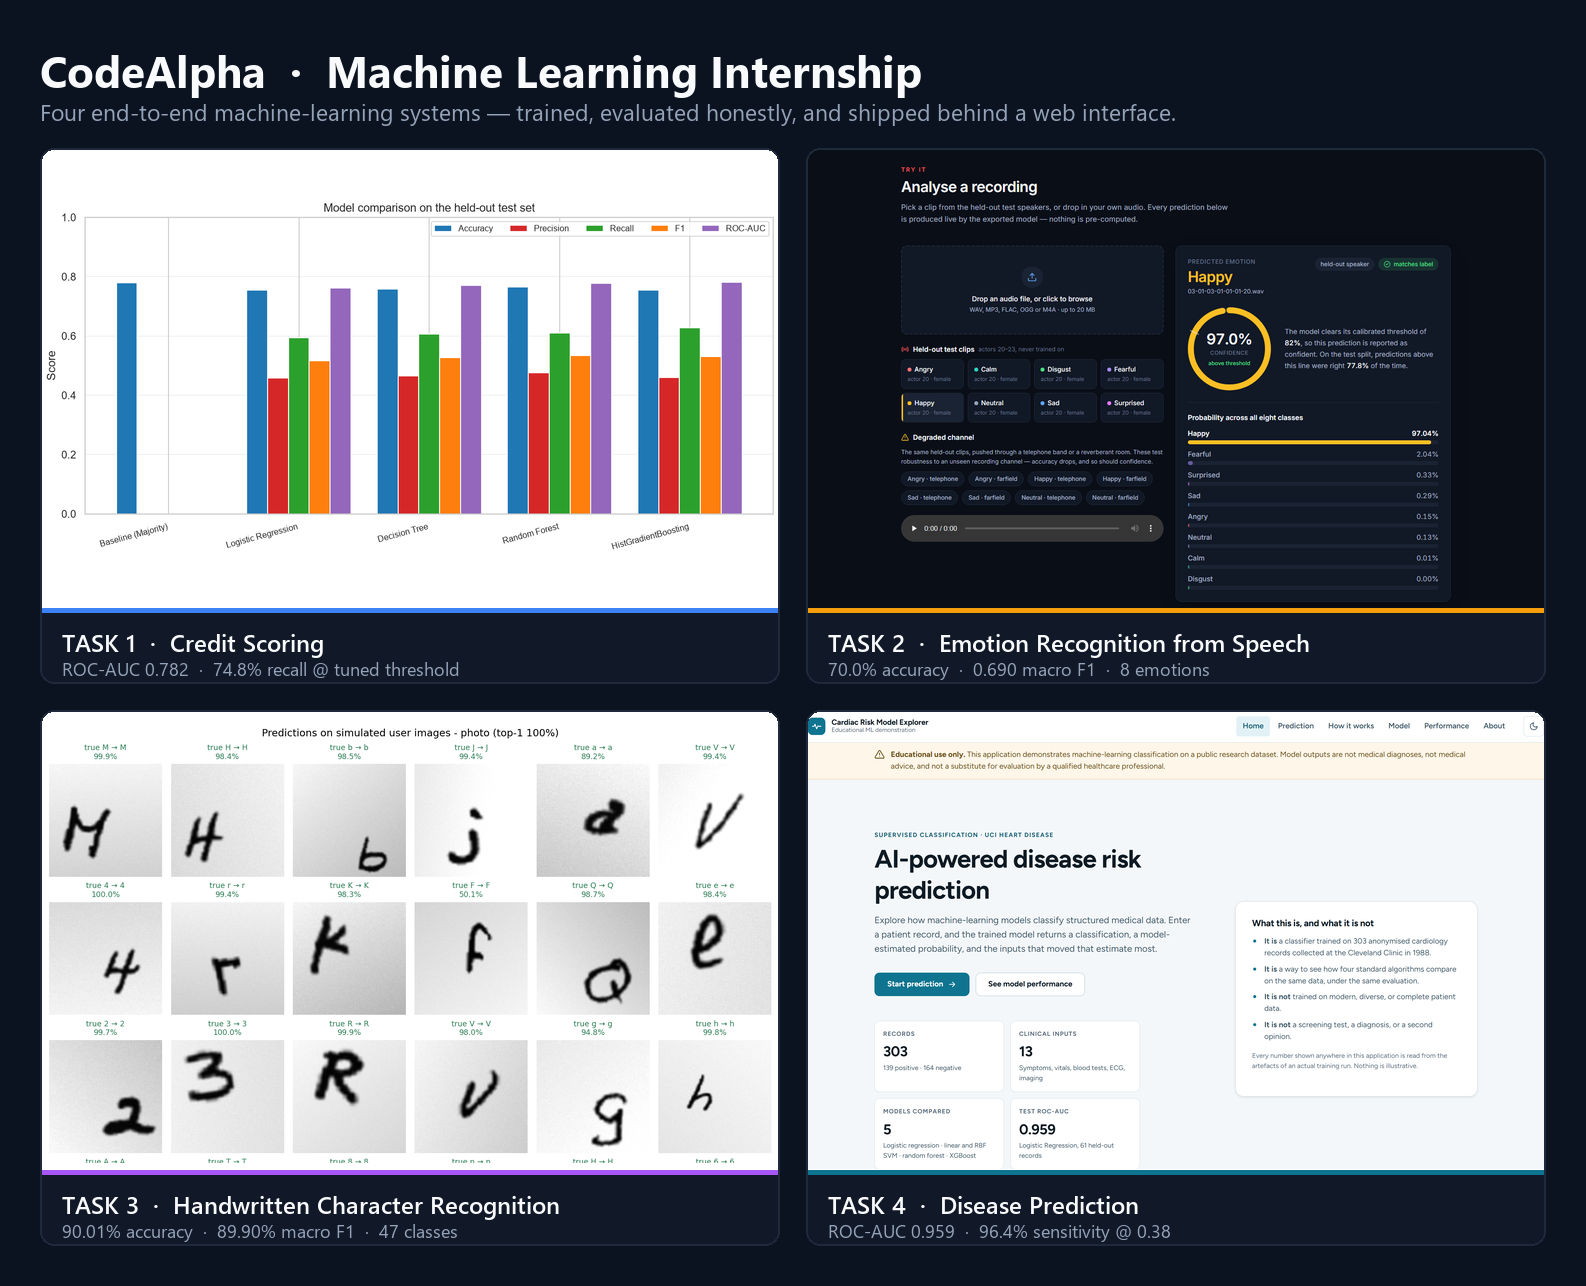
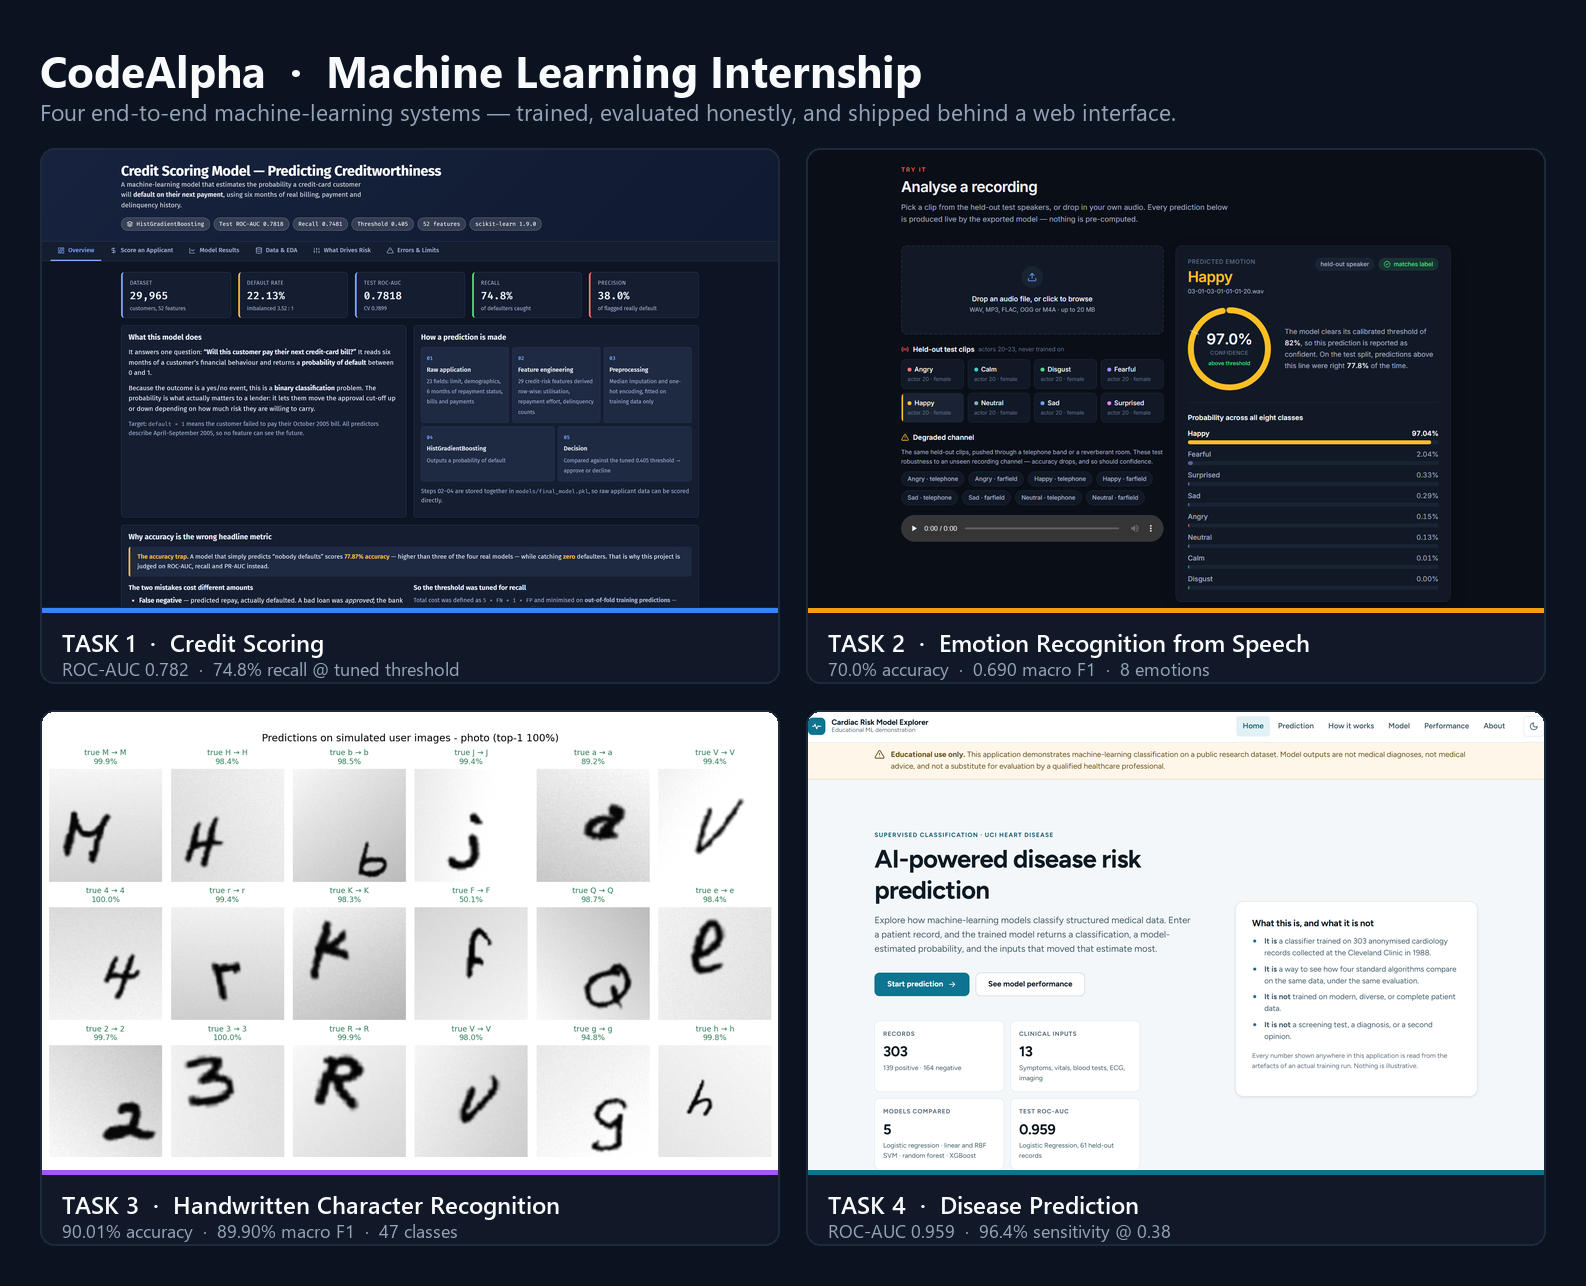
readme improved

diff --git a/credit scoring/static/css/styles.css b/credit scoring/static/css/styles.css
@@ -186,7 +186,17 @@ code, .mono { font-family: var(--font-mono); font-size: 0.92em; }
 }
 .kpi .value { font-family: var(--font-mono); font-size: 1.5rem; font-weight: 600; display: block; }
 .kpi .label { color: var(--color-muted-foreground); font-size: 0.78rem; text-transform: uppercase; letter-spacing: 0.04em; }
-.kpi .note { font-size: 0.78rem; color: var(--color-muted-foreground); }
+/* Reset the global .note callout box: inside a KPI tile this is a plain
+   caption, and the inherited padding/background overflowed the tile. */
+.kpi .note {
+  display: block;
+  border-left: 0;
+  background: none;
+  padding: 0;
+  margin: 0;
+  font-size: 0.78rem;
+  color: var(--color-muted-foreground);
+}
 .kpi.accent { border-left-color: var(--color-accent); }
 .kpi.good { border-left-color: var(--color-success); }
 .kpi.bad { border-left-color: var(--color-destructive); }

diff --git a/credit scoring/README.md b/credit scoring/README.md
@@ -15,6 +15,10 @@ billing, payment and delinquency history.
 [![ROC-AUC](https://img.shields.io/badge/test%20ROC--AUC-0.7818-1e40af)](#results)
 [![Licence](https://img.shields.io/badge/data-CC%20BY%204.0-blue)](https://archive.ics.uci.edu/dataset/350/default+of+credit+card+clients)
 
+<br>
+
+<img src="docs/img/ui-overview.png" alt="The dashboard's Overview tab: headline tiles for dataset size, default rate, test ROC-AUC, recall and precision, a five-step explanation of how a prediction is made, and the accuracy-trap callout." width="960">
+
 </div>
 
 ---
@@ -46,18 +50,13 @@ lender far more than declining one who would have repaid.
 
 ## Contents
 
-- [Quickstart](#quickstart)
-- [Interactive dashboard](#interactive-dashboard)
-- [The problem](#the-problem)
-- [Dataset](#dataset)
-- [Methodology](#methodology)
-- [Results](#results)
-- [What drives credit risk](#what-drives-credit-risk)
-- [Error analysis](#error-analysis)
-- [Fairness](#fairness)
-- [Limitations](#limitations)
-- [Project structure](#project-structure)
-- [Reproducibility](#reproducibility)
+| | |
+|---|---|
+| [Quickstart](#quickstart) · [The dashboard](#the-dashboard) | Get it running |
+| [Results](#results) · [What drives credit risk](#what-drives-credit-risk) | What it achieves |
+| [Dataset](#dataset) · [Methodology](#methodology) | The choices, and why |
+| [Error analysis](#error-analysis) · [Fairness](#fairness) · [Limitations](#limitations) | The honest caveats |
+| [Reproducibility](#reproducibility) | Every number, regenerated |
 
 ---
 
@@ -108,7 +107,7 @@ Regenerates `notebooks/credit_scoring_analysis.ipynb` and executes every cell.
 
 ---
 
-## Interactive dashboard
+## The dashboard
 
 ```bash
 python -m src.webapp    #  ->  http://127.0.0.1:5000
@@ -140,6 +139,13 @@ marked with the tuned `0.405` threshold, and a **"why" table** placing the appli
 real engineered indicators next to the dataset averages for customers who repaid and
 defaulted — with the riskiest values flagged.
 
+<div align="center">
+  <img src="docs/img/ui-real-customer.png" alt="A real dataset customer scored live: declined at 88.8% probability of default, with the risk-indicator table showing 3 late months, 93.6% average utilisation and a 0.05 repayment effort against the dataset averages, and a footer confirming this customer did in fact default." width="960">
+</div>
+
+<sub>An <b>actual record from the dataset</b>, scored by the real pipeline. The footer states
+what the customer really did, so the prediction can be checked rather than taken on trust.</sub>
+
 <details>
 <summary><b>Accessibility &amp; engineering notes</b></summary>
 
@@ -158,28 +164,15 @@ defaulted — with the riskiest values flagged.
 
 ---
 
-## The problem
-
-> Given an individual's past financial behaviour, predict their creditworthiness.
-
-A **binary classification** problem:
-
-| Label | Meaning | Business reading |
-|:---:|---|---|
-| `0` | Paid the next bill | **GOOD CREDIT** — creditworthy |
-| `1` | Defaulted on the next bill | **BAD CREDIT** — not creditworthy |
-
-Classification is the right framing because the outcome is a discrete yes/no event. The
-model outputs a **probability of default**, which is what a lender actually needs in
-order to set an approval cut-off.
-
----
-
 ## Dataset
 
 **UCI — Default of Credit Card Clients** ([dataset 350](https://archive.ics.uci.edu/dataset/350/default+of+credit+card+clients)) · a Taiwanese bank, April–September 2005 · CC BY 4.0
 
 The dataset **downloads automatically** on first run — nothing to fetch by hand.
+
+**Target** `default`: `1` = failed to pay the October 2005 bill (**bad credit**), `0` = paid
+it (**good credit**). The model outputs the *probability* of `1`, which is what a lender
+needs in order to set an approval cut-off.
 
 | | |
 |---|---|
@@ -460,6 +453,11 @@ conversion to a WOE/IV scorecard, and population-drift monitoring.
 
 ## Project structure
 
+<details>
+<summary><b>Expand the full tree</b></summary>
+
+<br>
+
 ```
 Credit-Scoring-model/
 ├── data/
@@ -492,6 +490,8 @@ Credit-Scoring-model/
 └── report.md                           # full analysis & viva notes
 ```
 
+</details>
+
 Large regenerable artefacts (raw data, processed CSV, `final_model.pkl`) are git-ignored
 and rebuilt by `python -m src.train`.
 
@@ -503,9 +503,10 @@ Seed **42** throughout. Every number in this README and in
 [`report.md`](report.md) is produced by executed code and written to
 `outputs/results/` — none is typed by hand.
 
-```bash
-python -m tests.verify_pipeline
-```
+<details>
+<summary><b><code>python -m tests.verify_pipeline</code></b> — 13 checks, end to end</summary>
+
+<br>
 
 ```
 [PASS]  1. Dataset loading .............. 29,965 rows x 24 cols, no duplicates, ID dropped
@@ -525,15 +526,12 @@ python -m tests.verify_pipeline
 RESULT: 13 passed, 0 failed
 ```
 
----
+</details>
 
-## Documentation
-
-| File | Contents |
-|---|---|
-| [`report.md`](report.md) | Full results, model selection reasoning, error analysis, and **viva Q&A notes** |
-| [`notebooks/credit_scoring_analysis.ipynb`](notebooks/credit_scoring_analysis.ipynb) | Narrative walkthrough from raw data to final model |
-| [`outputs/results/training_log.txt`](outputs/results/training_log.txt) | Complete console log of the run that produced these numbers |
+Deeper reading: [`report.md`](report.md) for the full analysis and viva Q&A notes ·
+[`notebooks/credit_scoring_analysis.ipynb`](notebooks/credit_scoring_analysis.ipynb) for the
+narrative walkthrough · [`outputs/results/training_log.txt`](outputs/results/training_log.txt)
+for the console log of the run that produced these numbers.
 
 ---
 

diff --git a/README.md b/README.md
@@ -22,7 +22,7 @@ the training run**.
 
 <br>
 
-<img src="docs/hero.png" alt="Four panels, one per project: a model-comparison bar chart for credit scoring, the speech-emotion analyser predicting Happy at 97% confidence, a grid of handwritten characters with their predicted labels, and the cardiac risk web application's landing page." width="100%">
+<img src="docs/hero.png" alt="Four panels, one per project: the credit-scoring dashboard with its headline metric tiles, the speech-emotion analyser predicting Happy at 97% confidence, a grid of handwritten characters with their predicted labels, and the cardiac risk web application's landing page." width="100%">
 
 </div>
 
